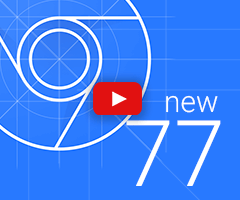
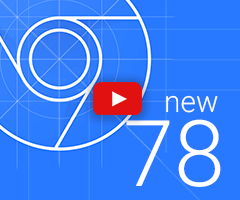
DevTools: Update What's New UI for Chrome 78
Bug: 986998
Auto-Submit: Kayce Basques <kayce@google.com>
Commit-Queue: Erik Luo <luoe@chromium.org>
Cr-Commit-Position: refs/heads/master@{#692994}

Changed region(s): [[0.7292, 0.57, 0.9333, 0.96]]

diff --git a/renderer/devtools/front_end/help/ReleaseNoteText.js b/renderer/devtools/front_end/help/ReleaseNoteText.js
@@ -13,6 +13,30 @@ const commandMenuShortcut = Host.isMac() ? 'Command+Shift+P' : 'Control+Shift+P'
 /** @type {!Array<!Help.ReleaseNote>} */
 Help.releaseNoteText = [
   {
+    version: 20,
+    header: 'Highlights from the Chrome 78 update',
+    highlights: [
+      {
+        title: 'Lighthouse 5.2 in the Audits panel',
+        subtitle:
+            'Measure the impact of third-party code on your load performance with the new Third-Party Usage audit.',
+        link: 'https://developers.google.com/web/updates/2019/09/devtools#audits',
+      },
+      {
+        title: 'Largest Contentful Paint (LCP) in the Performance panel',
+        subtitle: 'Click the new LCP marker in the Timing section to see the DOM node associated with your LCP.',
+        link: 'https://developers.google.com/web/updates/2019/09/devtools#LCP',
+      },
+      {
+        title: 'File issues and feature requests from the Main Menu',
+        subtitle:
+            'Found a bug? Got an idea on how to improve DevTools? Go to Main Menu > Help > Report a DevTools issue.',
+        link: 'https://developers.google.com/web/updates/2019/09/devtools#issues',
+      },
+    ],
+    link: 'https://developers.google.com/web/updates/2019/09/devtools',
+  },
+  {
     version: 19,
     header: 'Highlights from the Chrome 77 update',
     highlights: [
